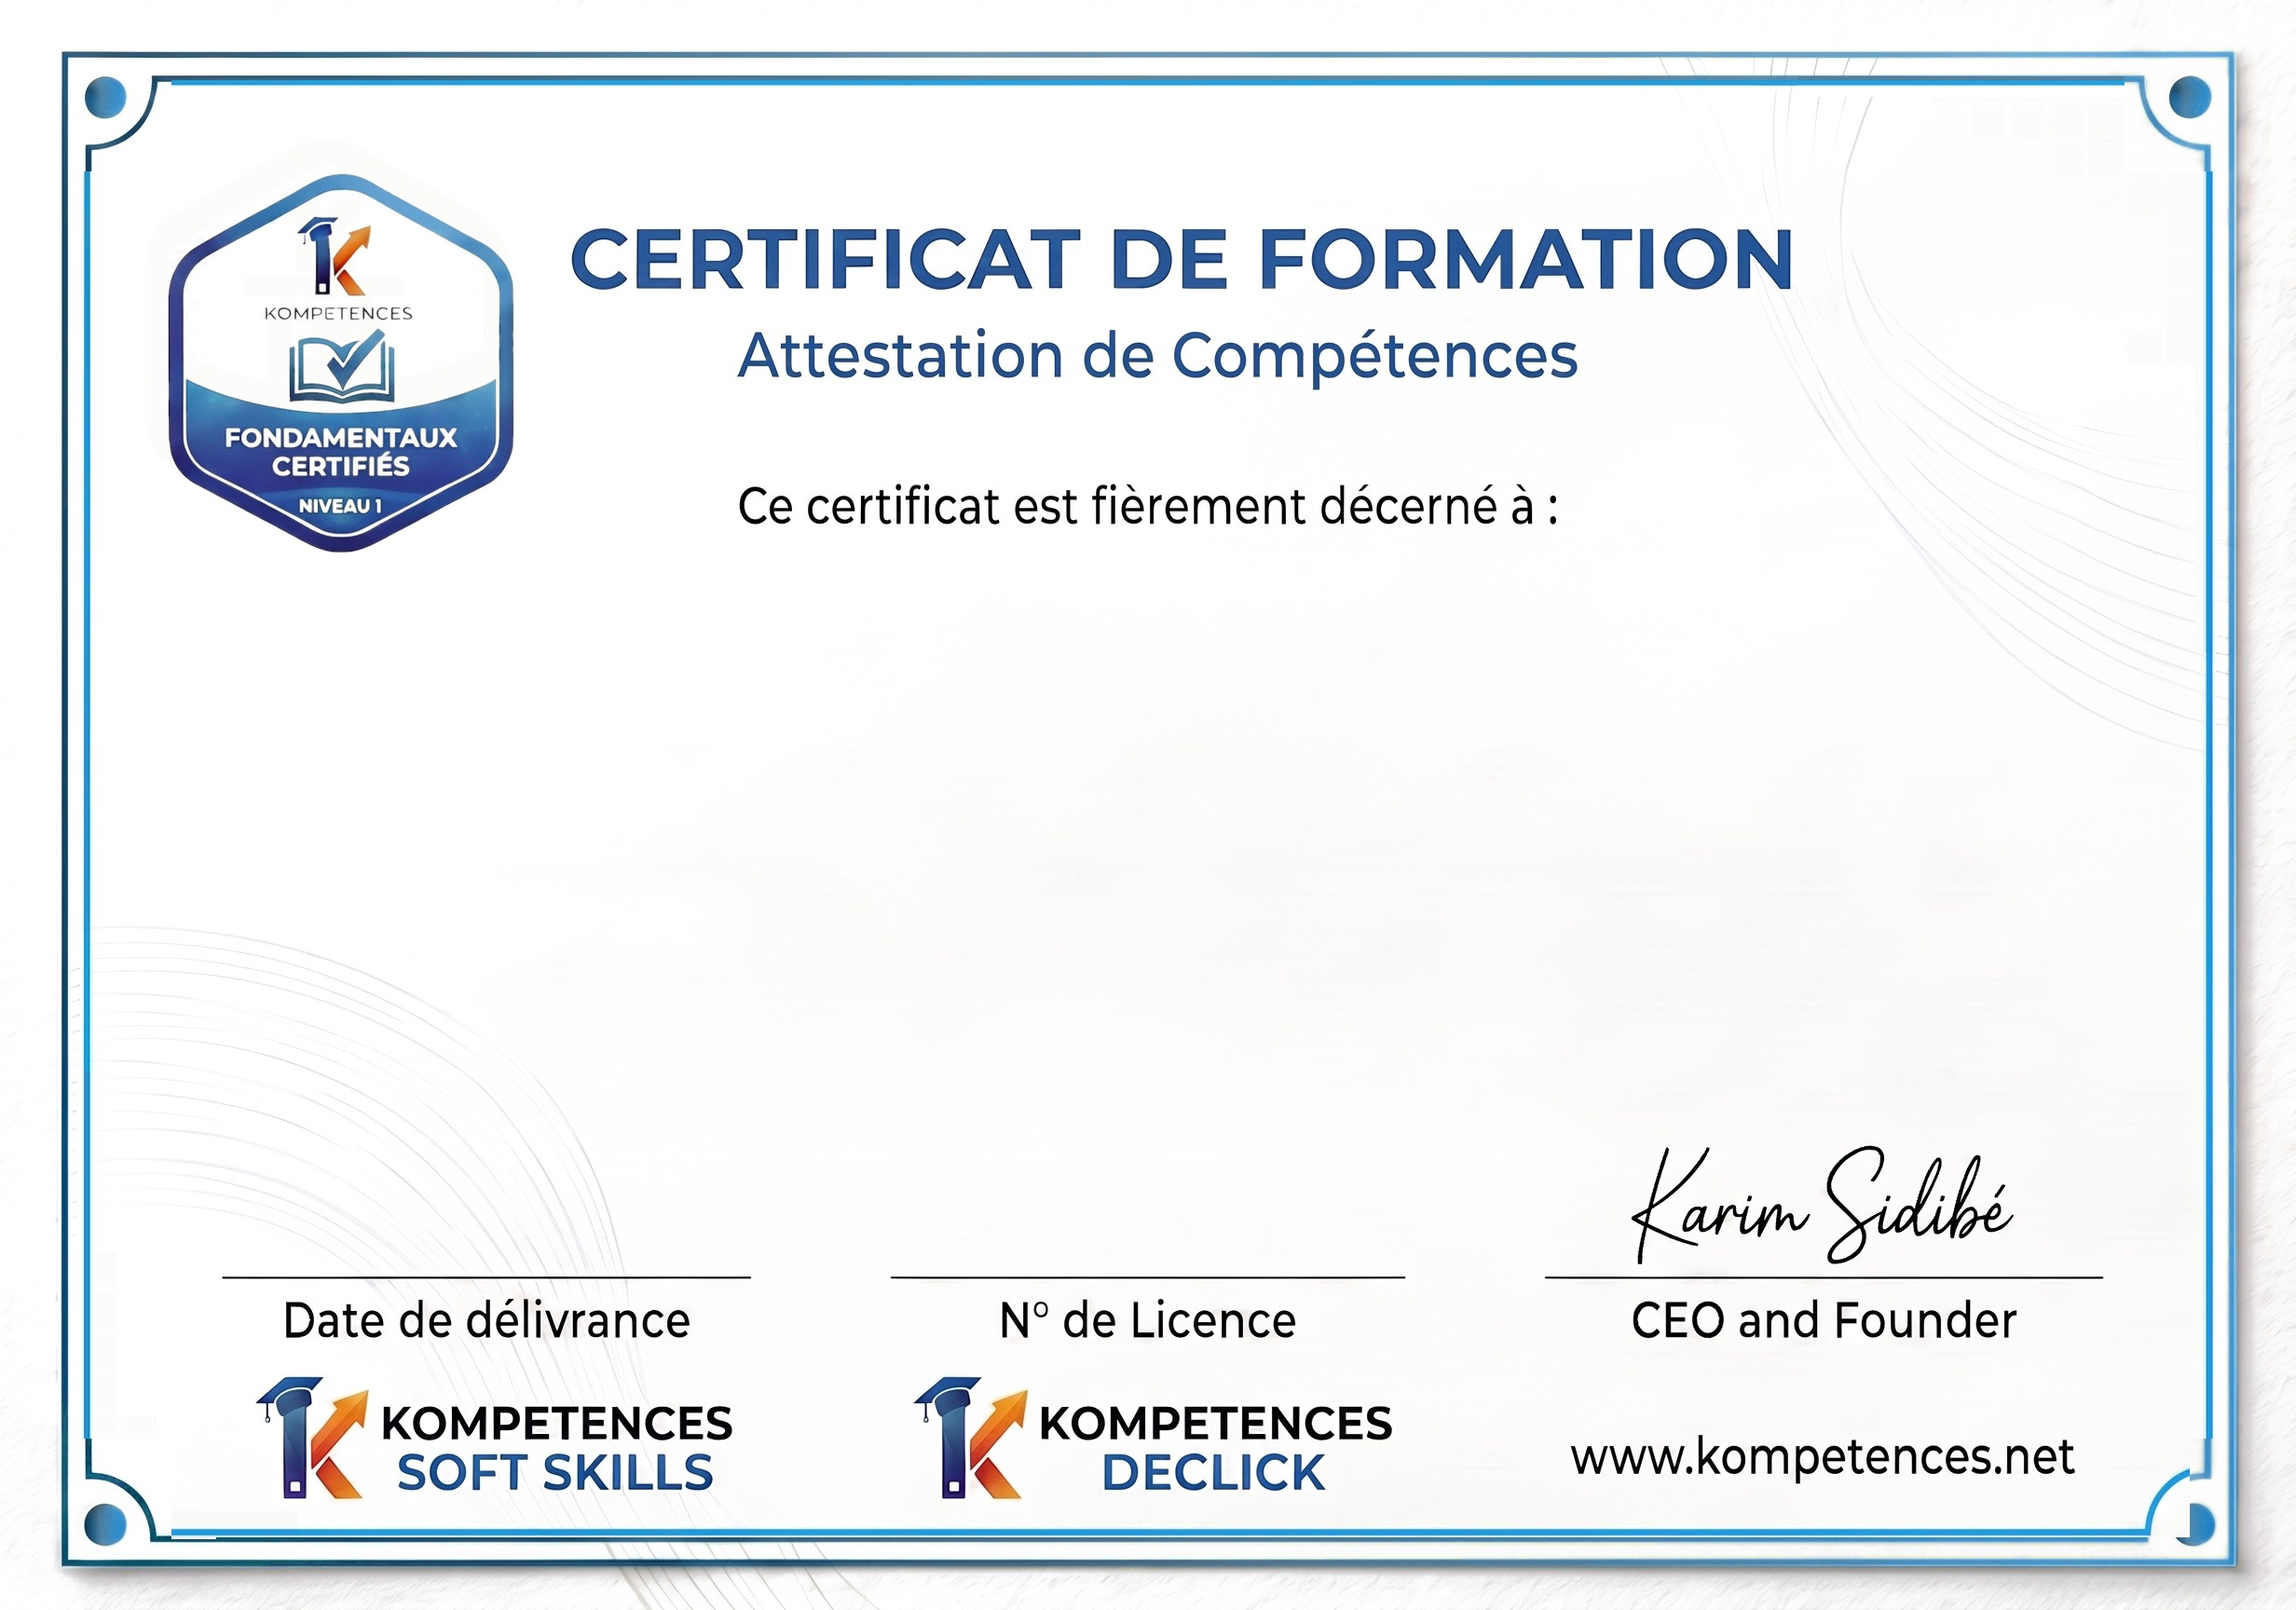
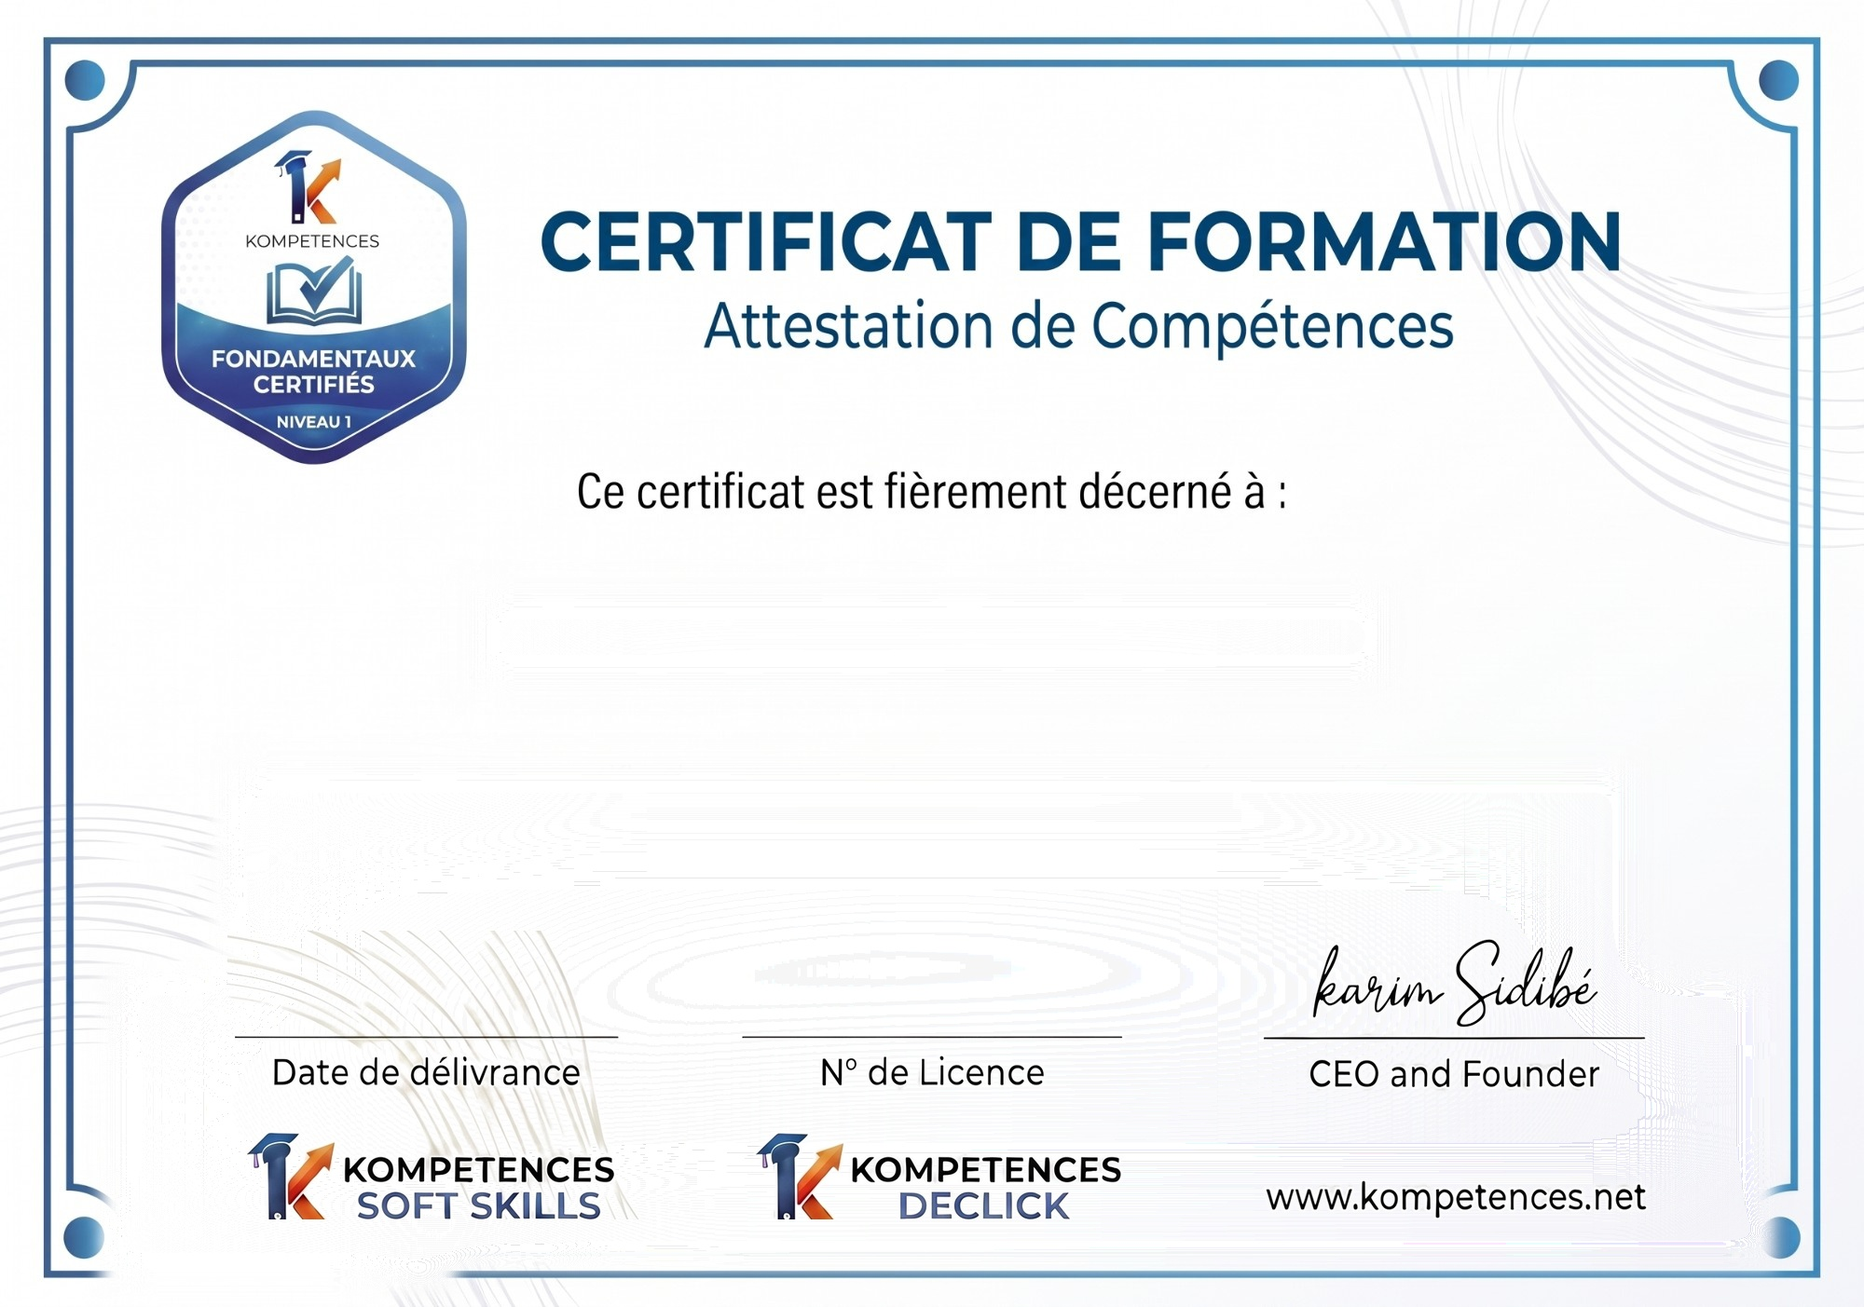
Certificats : nouveaux gabarits N1/N3 fournis, N1 aligné sur le N2
Adoption des visuels retouchés fournis pour les Niveaux 1 et 3, préparés
en gabarits vierges pour le moteur de délivrance :

- Champs dynamiques imprimés retirés des visuels (nom, paragraphe
  d'attestation, valeurs date/licence, QR et sa légende) par estimation
  lisse du fond — le moteur les surimprime avec la charte (Montserrat,
  couleur d'accent du niveau, légende « Vérifier l'authenticité »).
- Niveau 1 aligné sur la présentation du Niveau 2 : le bandeau bas du
  gabarit N2 (règles, libellés, logos, signature, www) est transplanté à
  l'échelle — mêmes positions de date (0.228) et licence (0.5), même
  emplacement et même taille de QR pour les trois niveaux.
- Niveau 3 : mise en page de son visuel conservée (règles ~N2), règles
  redessinées proprement sous les valeurs effacées ; dateX ajusté à
  0.205 pour centrer la date sur sa règle.

Vérifié par rendu réel des trois niveaux (champs bien positionnés sur
les règles, QR au même emplacement partout). Typecheck propre,
305 tests serveur verts.

Claude-Session: https://claude.ai/code/session_01Qrt9tHWkZ1jTBQdF92niHw

diff --git a/server/src/lib/credentials/pdf.ts b/server/src/lib/credentials/pdf.ts
@@ -38,9 +38,9 @@ export type CertificateData = {
 /** Per-level accents matching the branded templates (N1 blue, N2 green, N3 gold).
  *  dateX = measured center of each template's "Date de délivrance" rule line. */
 const LEVEL_STYLE: Record<1 | 2 | 3, { name: string; accent: string; dateX: number }> = {
-  1: { name: "#1E5AA6", accent: "#2B5EA7", dateX: 0.212 },
+  1: { name: "#1E5AA6", accent: "#2B5EA7", dateX: 0.228 },
   2: { name: "#17513F", accent: "#1E5B4F", dateX: 0.228 },
-  3: { name: "#111111", accent: "#B4691E", dateX: 0.212 },
+  3: { name: "#111111", accent: "#B4691E", dateX: 0.205 },
 };
 
 function templatePath(level: 1 | 2 | 3, dir?: string): string | null {
